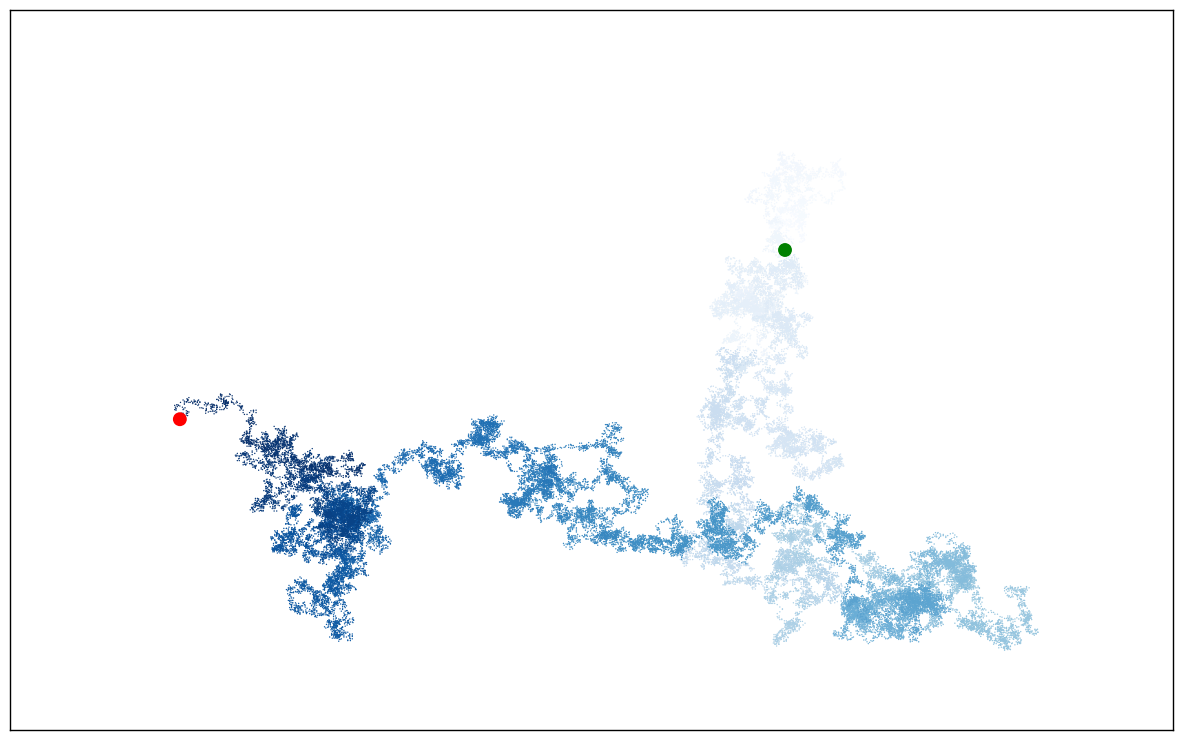
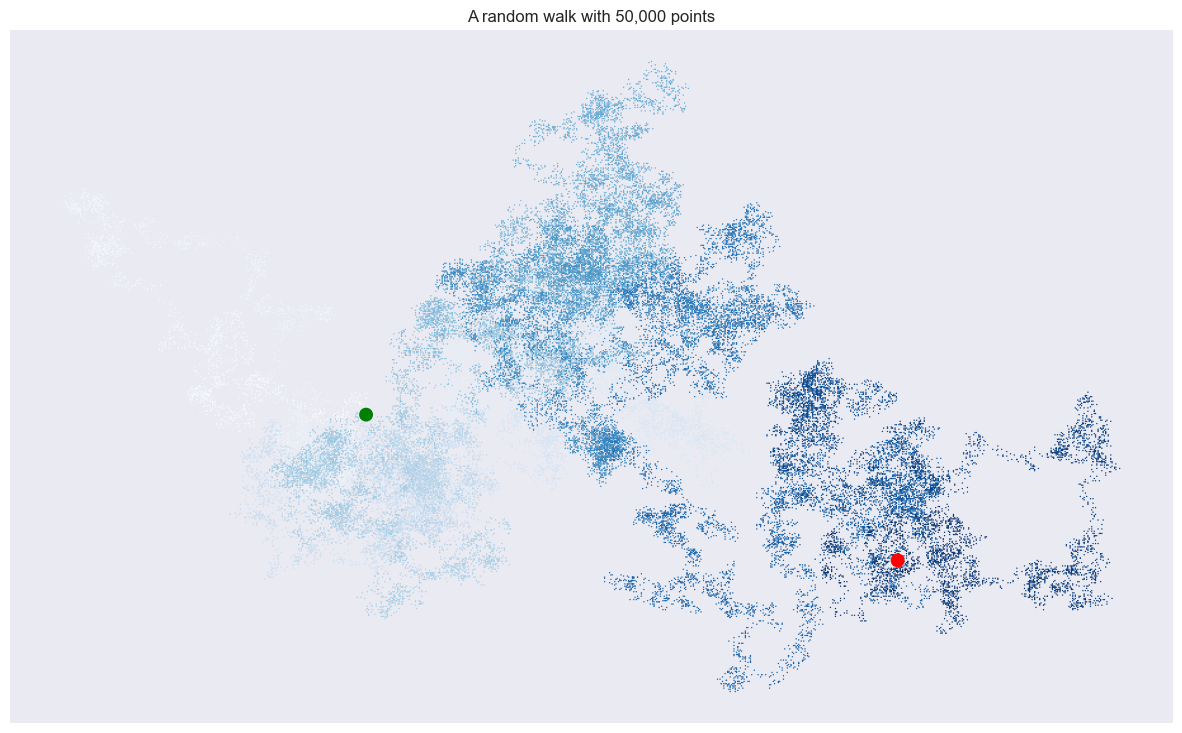
Replaced rw_visual.png.

Changed region(s): [[0.0, 0.09, 1.0, 0.9905], [0.0, 0.0, 1.0, 0.03]]

diff --git a/rw_visual.py b/rw_visual.py
@@ -9,7 +9,7 @@ while True:
     rw.fill_walk()
 
     # plot the points in the walks
-    plt.style.use('classic')
+    plt.style.use('seaborn')
     fig, ax = plt.subplots(figsize=(15, 9))
     # generate a list of numbers equal to the number of points in the walk
     point_numbers = range(rw.num_points)
@@ -25,8 +25,11 @@ while True:
     ax.get_xaxis().set_visible(False)
     ax.get_yaxis().set_visible(False)
 
-    #plt.savefig('rw_visual.png', bbox_inches='tight')
-    plt.show()
+    # name axes
+    ax.set_title("A random walk with 50,000 points")
+
+    plt.savefig('rw_visual.png', bbox_inches='tight')
+    #plt.show()
 
     keep_running = input("Make another walk? (y/n): ")
     if keep_running == 'n':
